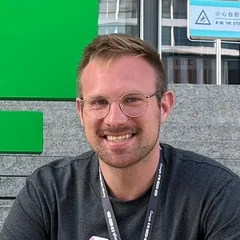
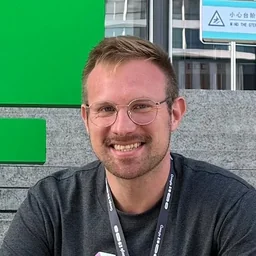
Increase font-size to 16px

diff --git a/public/css/style.css b/public/css/style.css
@@ -23,34 +23,34 @@
 
 body {
   margin: 0;
-  padding: 138px 24px;
+  padding: 158px 24px;
   background: var(--bg);
   color: var(--fg);
   font-family: "Figtree", system-ui, -apple-system, sans-serif;
-  font-size: 15px;
-  line-height: 24px;
+  font-size: 16px;
+  line-height: 26px;
   font-weight: 450;
   -webkit-font-smoothing: antialiased;
 }
 
 .column {
-  max-width: 600px;
+  max-width: 672px;
   margin: 0 auto;
   display: flex;
   flex-direction: column;
-  gap: 60px;
+  gap: 64px;
 }
 
 .intro {
   display: flex;
   flex-direction: column;
   align-items: flex-start;
-  gap: 26px;
+  gap: 28px;
 }
 
 .avatar {
-  width: 60px;
-  height: 60px;
+  width: 64px;
+  height: 64px;
   border-radius: 50%;
   display: block;
   object-fit: cover;
@@ -65,13 +65,13 @@ body {
 .section {
   display: flex;
   flex-direction: column;
-  gap: 13px;
+  gap: 14px;
 }
 
 .section-heading {
   margin: 0;
-  font-size: 15px;
-  line-height: 24px;
+  font-size: 16px;
+  line-height: 26px;
   font-weight: 600;
   color: var(--fg);
 }
@@ -80,7 +80,7 @@ body {
   display: flex;
   justify-content: space-between;
   align-items: center;
-  gap: 13px;
+  gap: 14px;
 }
 
 a {
@@ -126,13 +126,13 @@ a:focus-visible {
   padding: 0;
   display: flex;
   flex-direction: column;
-  gap: 9px;
+  gap: 10px;
 }
 
 .row {
   display: flex;
   align-items: center;
-  gap: 13px;
+  gap: 14px;
 }
 
 .row-label {
@@ -143,7 +143,7 @@ a:focus-visible {
   flex: 1;
   height: 1px;
   background: var(--line);
-  min-width: 12px;
+  min-width: 4px;
 }
 
 .date {
@@ -161,61 +161,61 @@ a:focus-visible {
 }
 
 .exp-company {
-  margin-right: 6.5px;
+  margin-right: 7px;
   white-space: nowrap;
 }
 
 .exp-role {
   color: var(--fg-muted);
-  margin-right: 13px;
+  margin-right: 14px;
   white-space: nowrap;
 }
 
 .exp-row .leader {
-  margin-right: 13px;
+  margin-right: 14px;
 }
 
 .project-groups {
   display: flex;
   flex-direction: column;
-  gap: 30px;
+  gap: 32px;
 }
 
 .project-group {
   display: flex;
   flex-direction: column;
-  gap: 9px;
+  gap: 10px;
 }
 
 .group-heading {
   margin: 0;
-  font-size: 15px;
-  line-height: 24px;
+  font-size: 16px;
+  line-height: 26px;
   font-weight: 450;
   color: var(--fg-muted);
 }
 
 .footer {
   border-top: 1px solid var(--line);
-  padding-top: 17px;
+  padding-top: 18px;
 }
 
 .footer-row {
   display: flex;
   justify-content: space-between;
   align-items: center;
-  gap: 13px;
+  gap: 14px;
 }
 
 .social-links {
   display: flex;
   align-items: center;
-  gap: 17px;
+  gap: 18px;
 }
 
 .social-link {
-  width: 22px;
-  height: 22px;
+  width: 24px;
+  height: 24px;
   display: inline-flex;
   align-items: center;
   justify-content: center;
@@ -236,7 +236,7 @@ a:focus-visible {
 .back-link {
   display: inline-flex;
   align-items: center;
-  gap: 9px;
+  gap: 10px;
   color: var(--fg-muted);
   text-decoration: none;
 }
@@ -247,8 +247,8 @@ a:focus-visible {
 }
 
 .back-avatar {
-  width: 22px;
-  height: 22px;
+  width: 24px;
+  height: 24px;
   border-radius: 50%;
   object-fit: cover;
   display: block;
@@ -258,13 +258,13 @@ a:focus-visible {
 .case-intro {
   display: flex;
   flex-direction: column;
-  gap: 26px;
+  gap: 28px;
 }
 
 .case-title {
   margin: 0;
-  font-size: 15px;
-  line-height: 24px;
+  font-size: 16px;
+  line-height: 26px;
   font-weight: 600;
   color: var(--fg);
 }
@@ -282,35 +282,35 @@ a:focus-visible {
 }
 
 .case-body h2 {
-  margin: 60px 0 0 0;
-  font-size: 15px;
-  line-height: 24px;
+  margin: 64px 0 0 0;
+  font-size: 16px;
+  line-height: 26px;
   font-weight: 600;
   color: var(--fg);
 }
 
 .case-body p {
-  margin: 13px 0 0 0;
+  margin: 14px 0 0 0;
   color: var(--fg);
 }
 
 .case-figure {
-  margin: 26px 0 0 0;
+  margin: 28px 0 0 0;
   display: flex;
   flex-direction: column;
-  gap: 9px;
+  gap: 10px;
 }
 
 .case-body h2 + .case-figure {
-  margin-top: 13px;
+  margin-top: 14px;
 }
 
 .case-figure + .case-figure {
-  margin-top: 34px;
+  margin-top: 36px;
 }
 
 .case-figure + p {
-  margin-top: 26px;
+  margin-top: 28px;
 }
 
 .case-media {
@@ -332,8 +332,8 @@ a:focus-visible {
 
 .case-caption {
   color: var(--fg-muted);
-  font-size: 15px;
-  line-height: 24px;
+  font-size: 16px;
+  line-height: 26px;
 }
 
 .case-body > :first-child {
@@ -342,25 +342,25 @@ a:focus-visible {
 
 @media (max-width: 479px) {
   body {
-    padding: 74px 24px;
+    padding: 84px 24px;
   }
 
   .column {
-    gap: 51px;
+    gap: 54px;
   }
 
   .case-body h2 {
-    margin-top: 51px;
+    margin-top: 54px;
   }
 
   .exp-list {
-    gap: 13px;
+    gap: 14px;
   }
 
   .exp-row {
     display: grid;
     grid-template-columns: auto 1fr auto;
-    column-gap: 13px;
+    column-gap: 14px;
     row-gap: 0;
     align-items: center;
   }
@@ -391,7 +391,7 @@ a:focus-visible {
   .award-row {
     align-items: flex-start;
     justify-content: space-between;
-    gap: 13px;
+    gap: 14px;
   }
 
   .award-row .leader {
@@ -401,6 +401,6 @@ a:focus-visible {
   .footer-row {
     flex-direction: column;
     align-items: flex-start;
-    gap: 13px;
+    gap: 14px;
   }
 }
